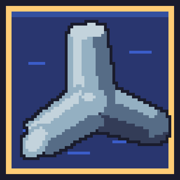
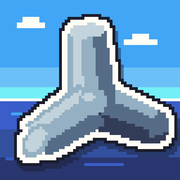
手機桌面圖示換成白邊貼紙款（不要金框）

diff --git a/index.html b/index.html
@@ -11,9 +11,9 @@
 <meta name="mobile-web-app-capable" content="yes">
 <meta name="apple-mobile-web-app-status-bar-style" content="black-translucent">
 <meta name="apple-mobile-web-app-title" content="釣魚人生">
-<link rel="manifest" href="manifest.webmanifest?v=3">
-<link rel="apple-touch-icon" href="apple-touch-icon.png?v=3">
-<link rel="icon" type="image/png" sizes="192x192" href="icon-192.png?v=3">
+<link rel="manifest" href="manifest.webmanifest?v=4">
+<link rel="apple-touch-icon" href="apple-touch-icon.png?v=4">
+<link rel="icon" type="image/png" sizes="192x192" href="icon-192.png?v=4">
 <link rel="preload" as="image" href="loading/friends-portrait-v2.webp" media="(orientation:portrait)">
 <link rel="preload" as="image" href="loading/friends-landscape-v2.webp" media="(orientation:landscape)">
 <style>
